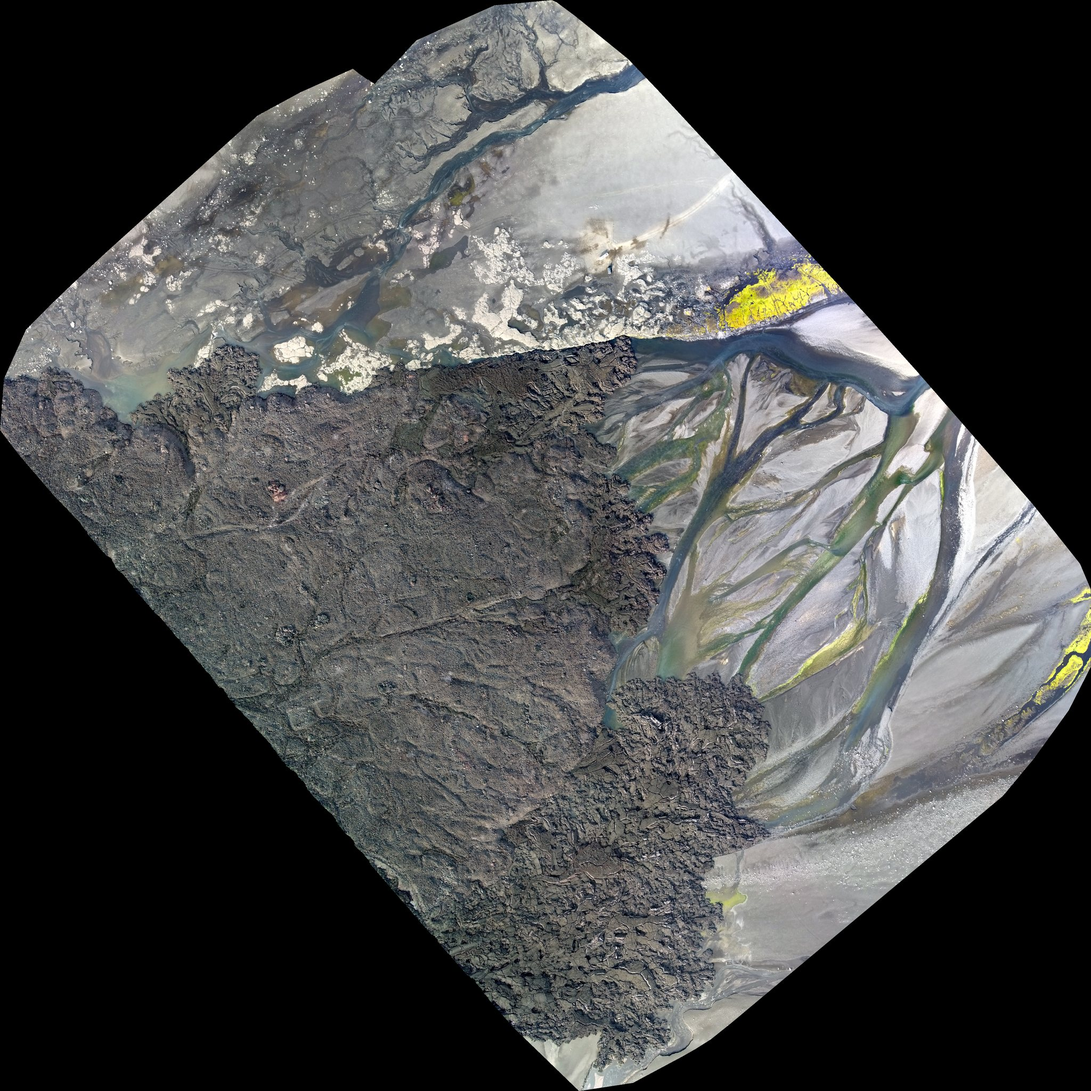
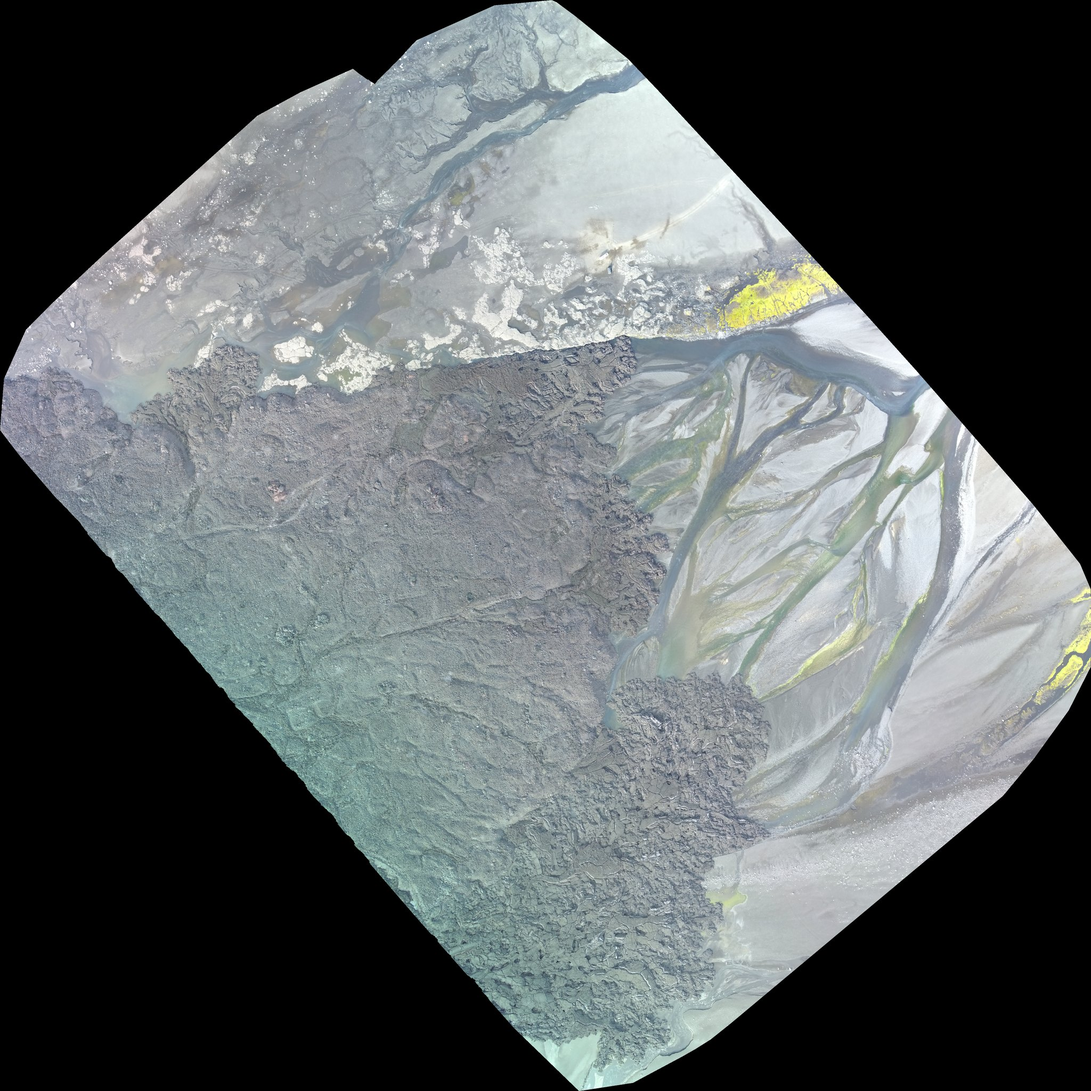
Hot springs flyover: original orthomosaic colours, unaltered; gentler lighting

diff --git a/js/flyover.js b/js/flyover.js
@@ -5,7 +5,7 @@
 (function () {
 'use strict';
 const REDUCED = window.matchMedia('(prefers-reduced-motion: reduce)');
-const V = '?v=20261124c';   // bump when terrain or image files change, so browsers fetch the new ones
+const V = '?v=20261124d';   // bump when terrain or image files change, so browsers fetch the new ones
 const FLYOVERS = {
   hotsprings2015: {
     title: 'Holuhraun lava margin and hot springs, Iceland',
@@ -42,7 +42,7 @@ const VS = 'attribute vec2 p;attribute float h;attribute vec2 g;uniform mat4 m;u
   'void main(){vec3 w=vec3(p.x,h*rel*ex,p.y);uv=vec2(p.x,p.y)*vec2(1.)/1.+.5;n=normalize(vec3(-g.x*ex,1.,-g.y*ex));gl_Position=m*vec4(w,1.);d=gl_Position.w;}';
 const FS = 'precision highp float;varying vec2 uv;varying vec3 n;varying float d;uniform sampler2D t;uniform vec3 sun,fog;uniform float far;' +
   'void main(){vec3 c=texture2D(t,uv).rgb;float l=max(dot(normalize(n),sun),0.);float sky=.5+.5*n.y;' +
-  'vec3 col=min(c*(.62+.12*sky+.42*l),vec3(1.));float f=smoothstep(far*.55,far*1.1,d);gl_FragColor=vec4(mix(col,fog,f*.3),1.);}';
+  'vec3 col=c*(.68+.08*sky+.30*l);float f=smoothstep(far*.55,far*1.1,d);gl_FragColor=vec4(mix(col,fog,f*.3),1.);}';
 
 let dlg = null;
 
